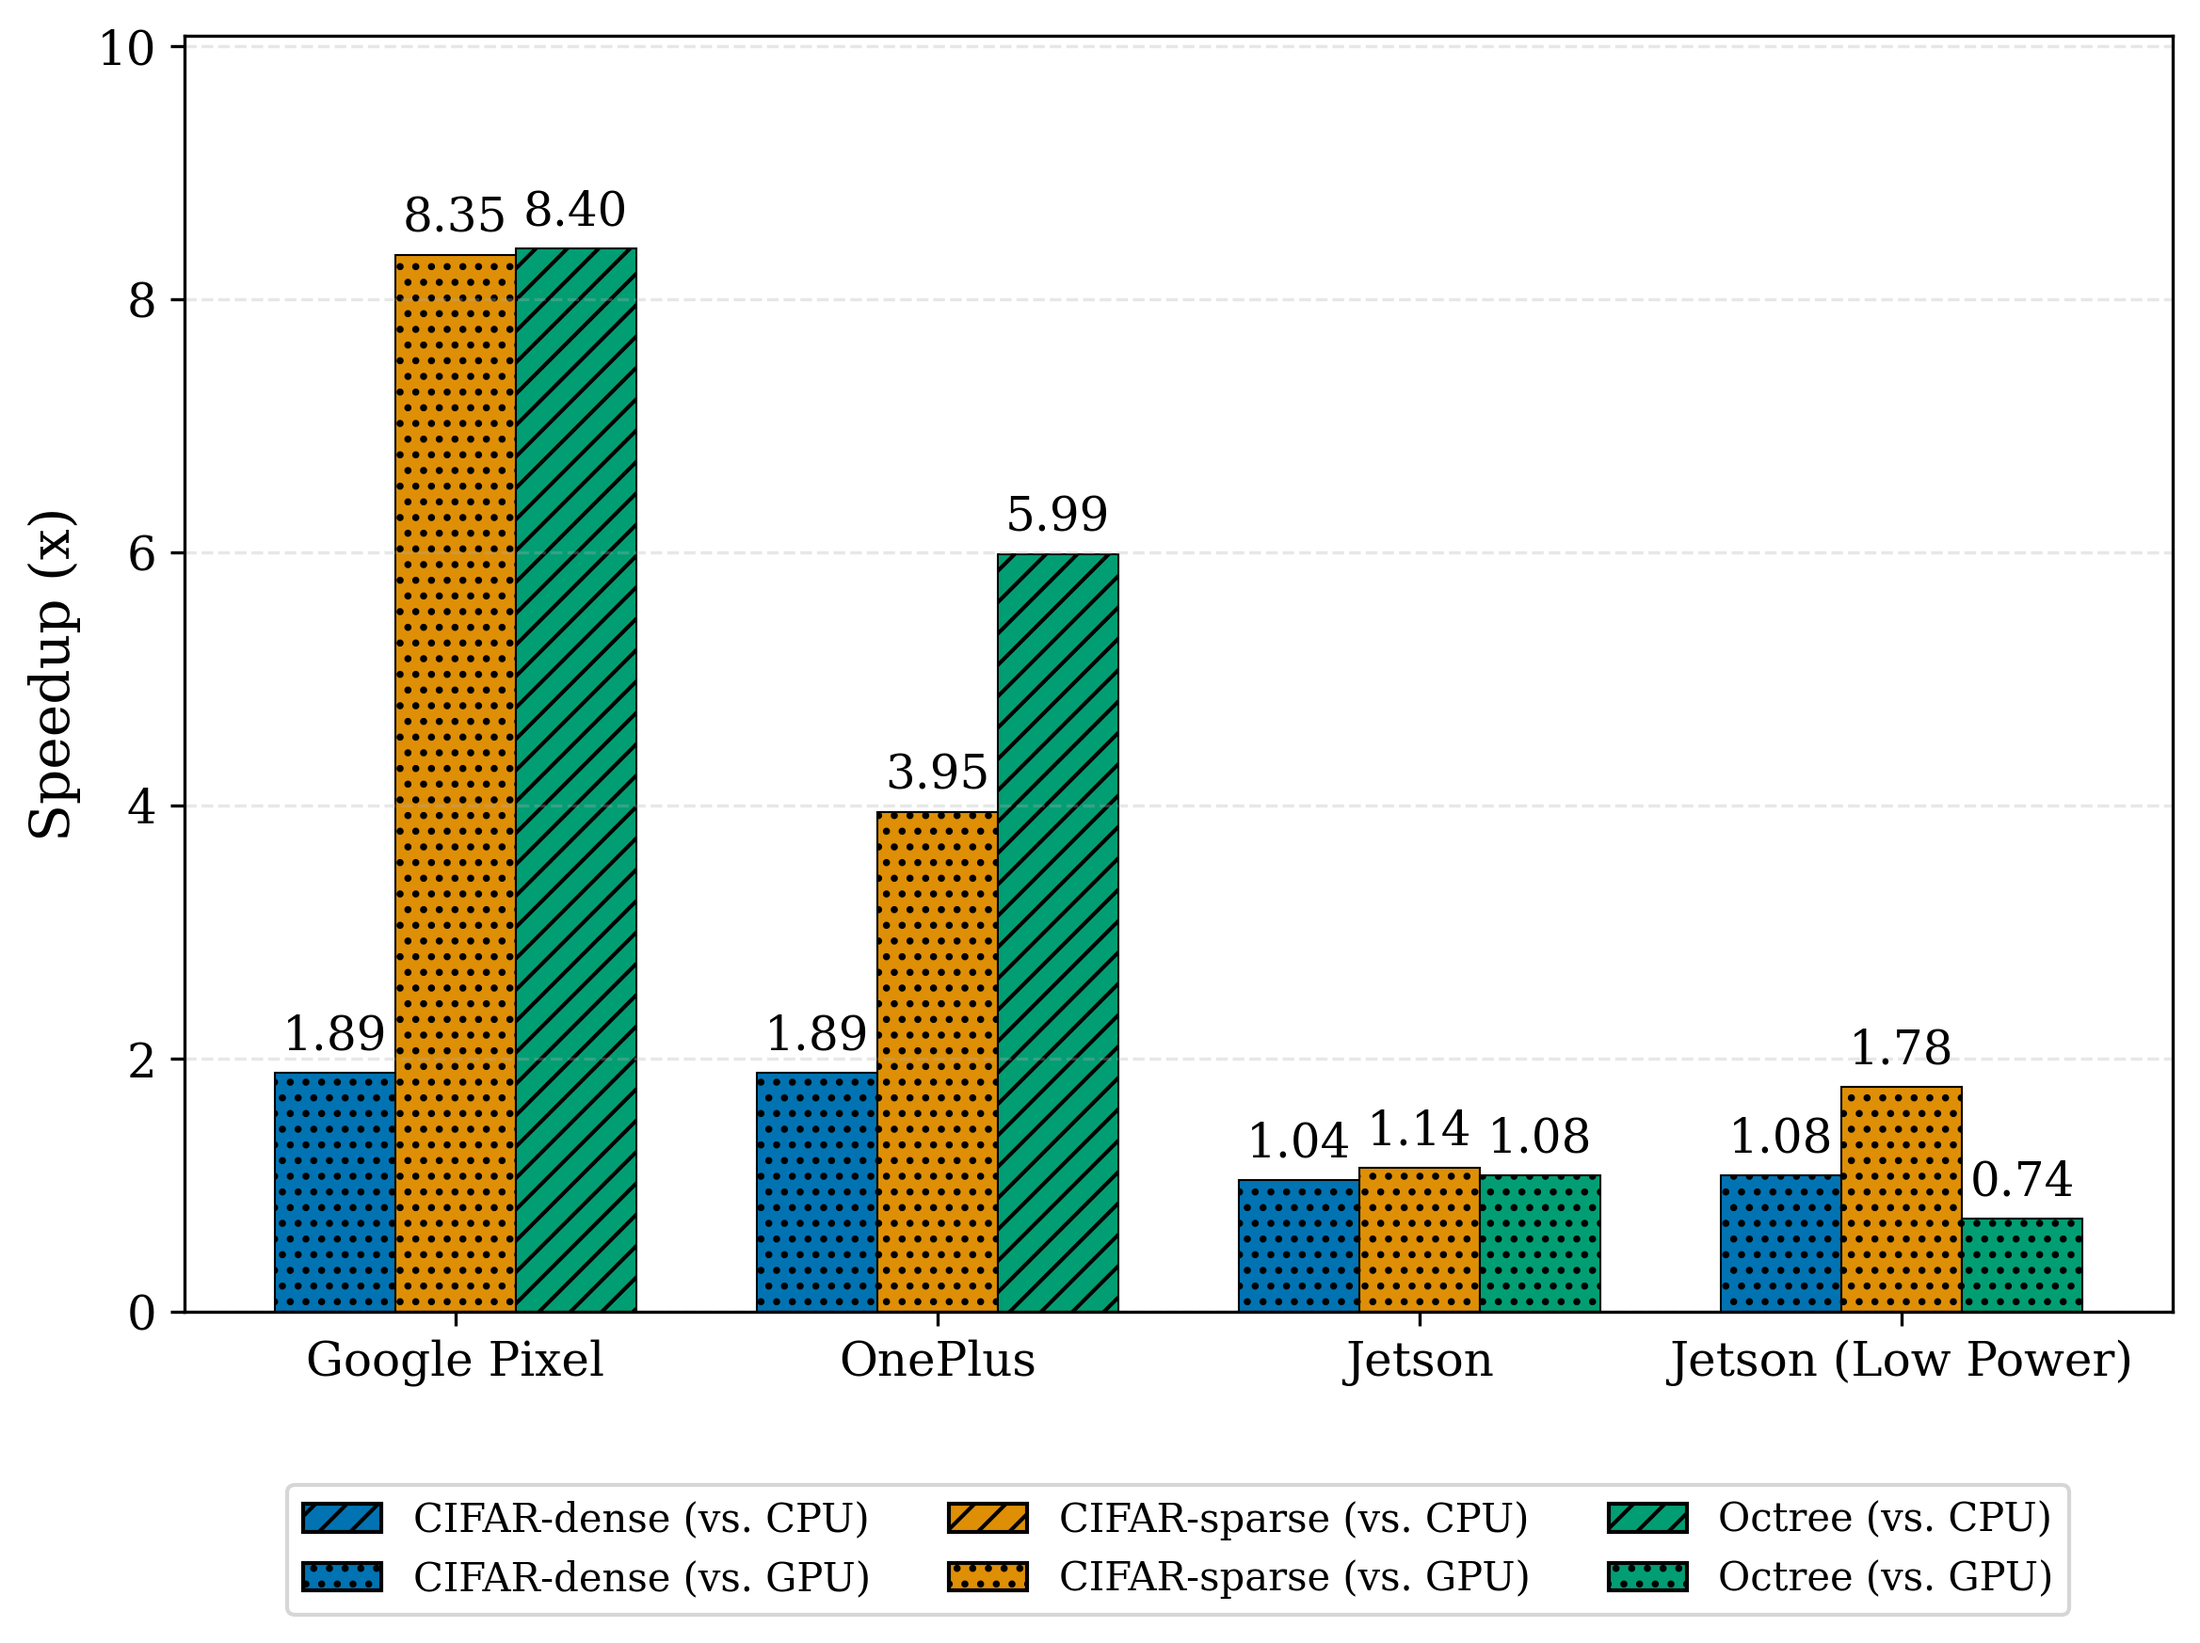
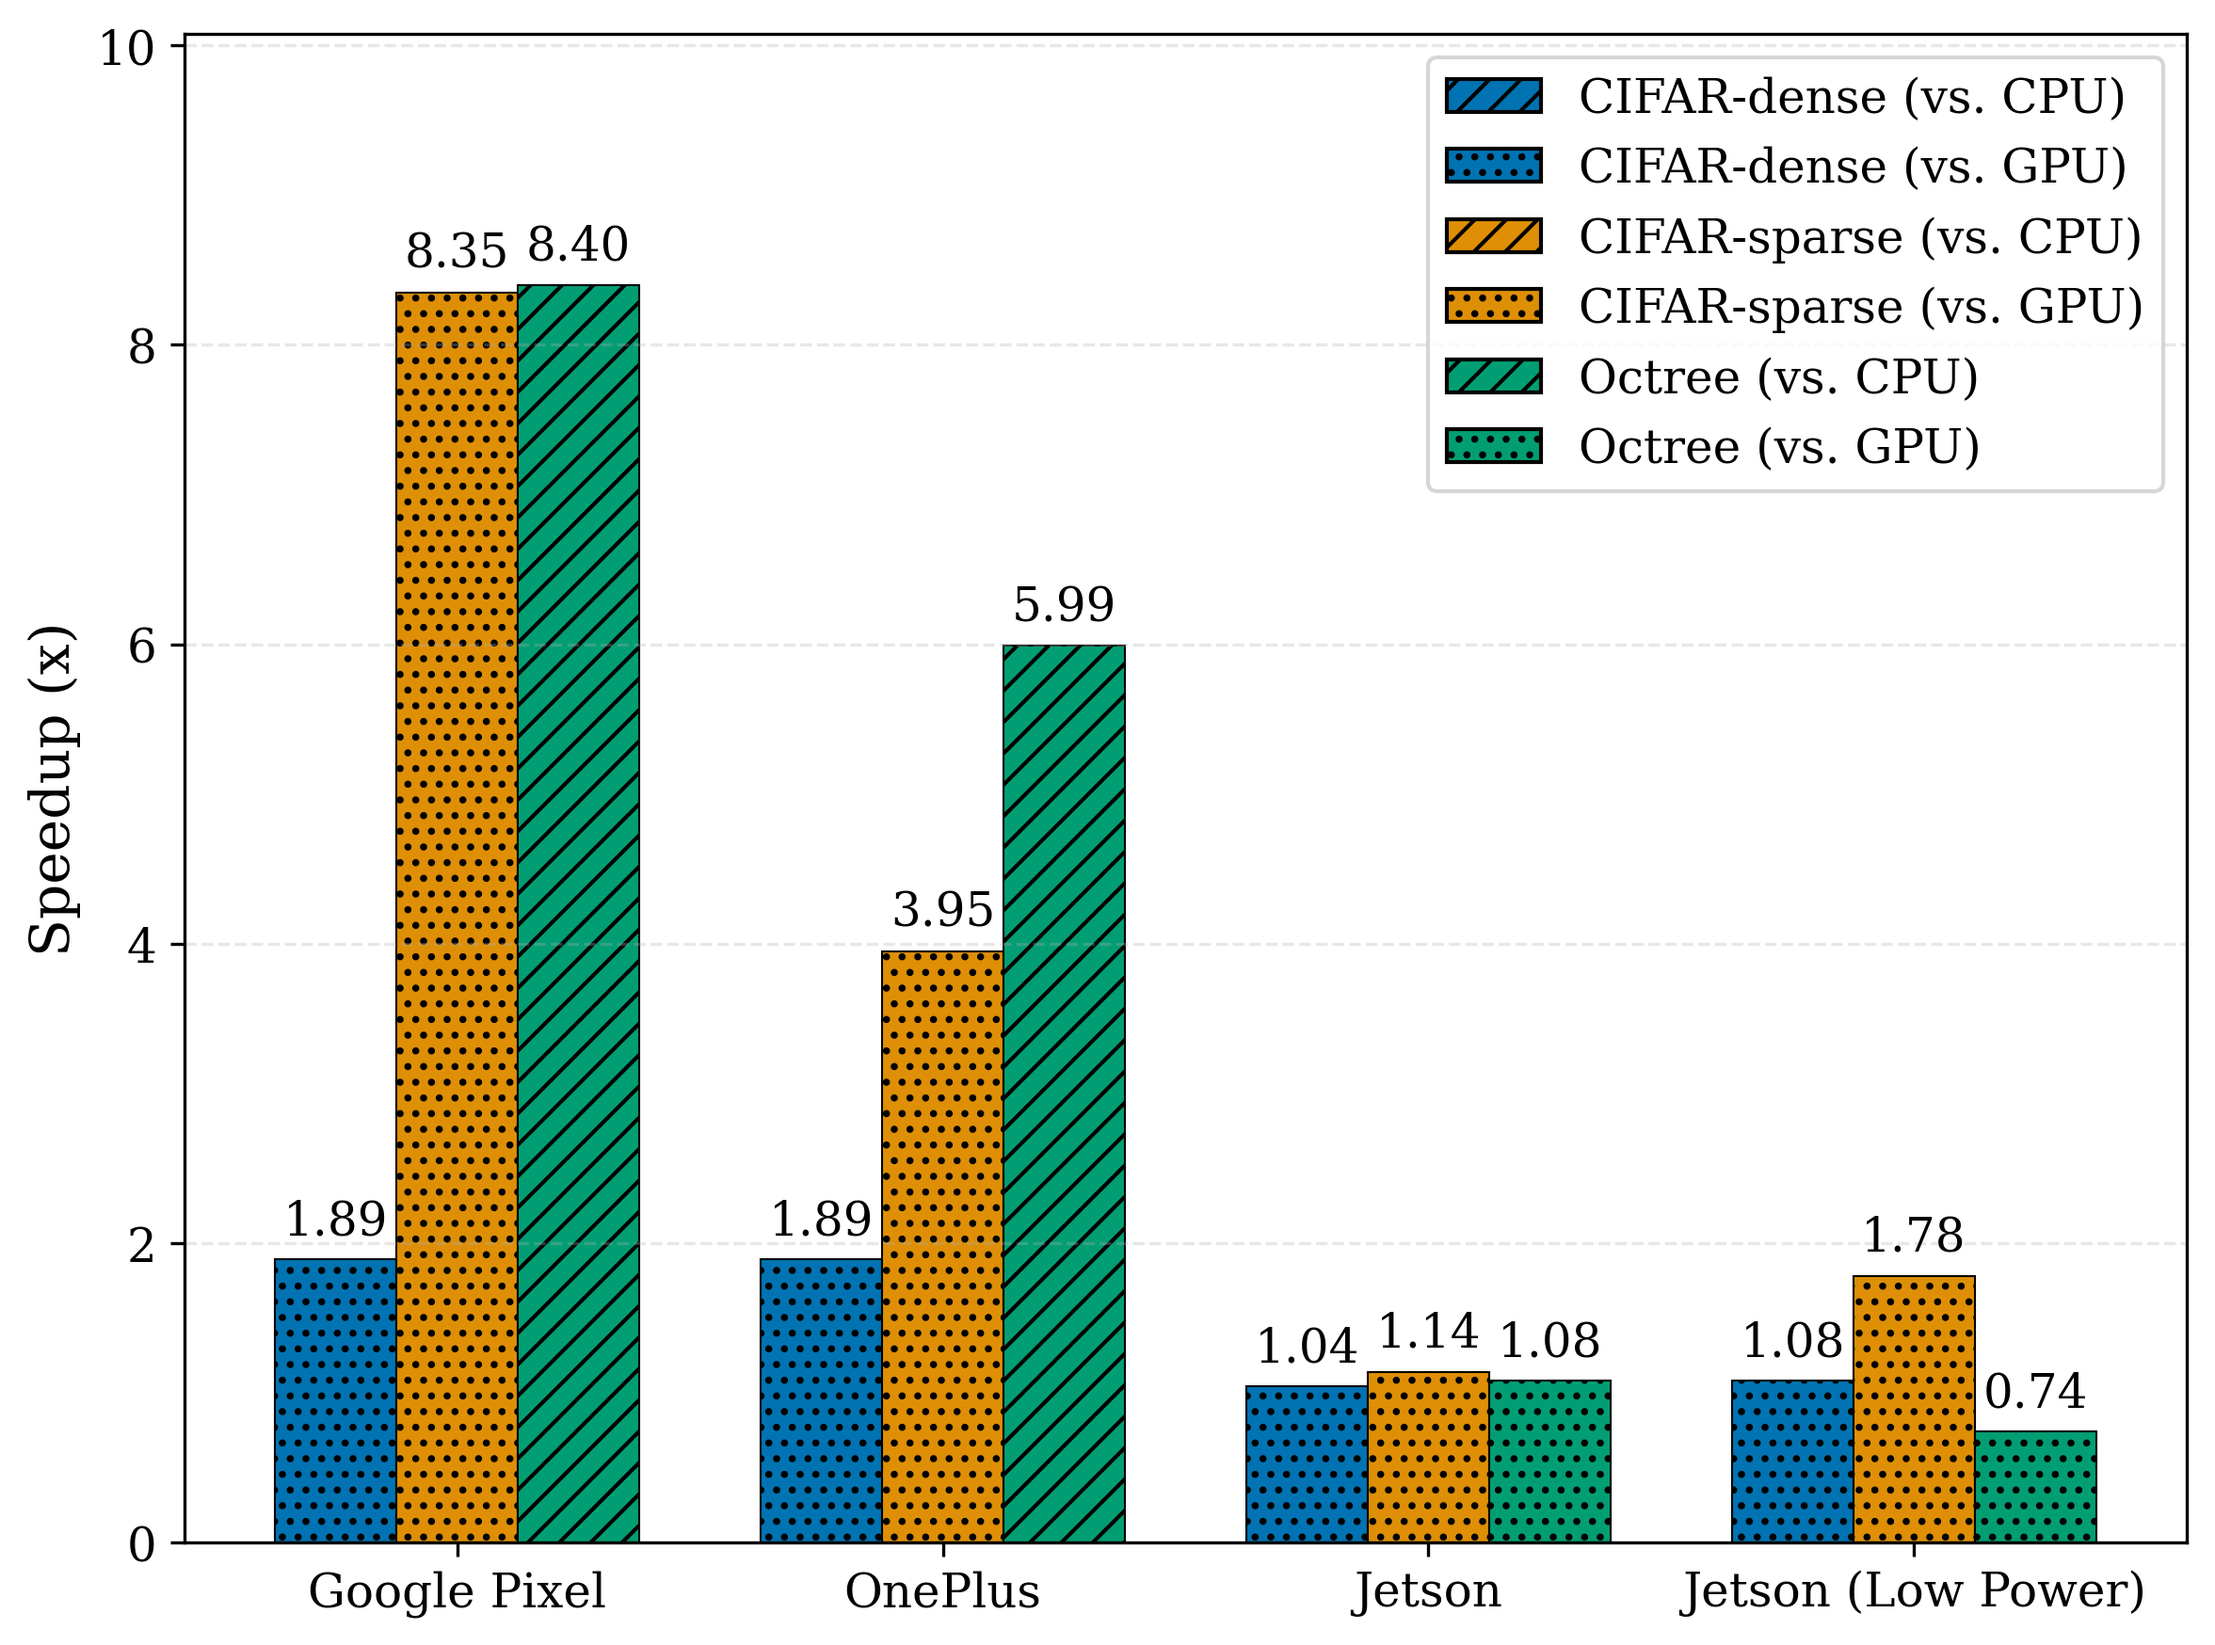
save

diff --git a/scripts/paper/new/figure_4_overall_speedup.py b/scripts/paper/new/figure_4_overall_speedup.py
@@ -157,11 +157,11 @@ for app in apps:
 # Add the combined legend
 ax.legend(
     handles=legend_elements,
-    loc="upper center",
-    bbox_to_anchor=(0.5, -0.12),
-    ncol=3,
+    loc="upper right",
+    bbox_to_anchor=(1.0, 1.0),
+    ncol=1,
     frameon=True,
-    fontsize=10,
+    fontsize=12,
 )
 
 # Create a table showing which baseline was chosen for each device-app combination
